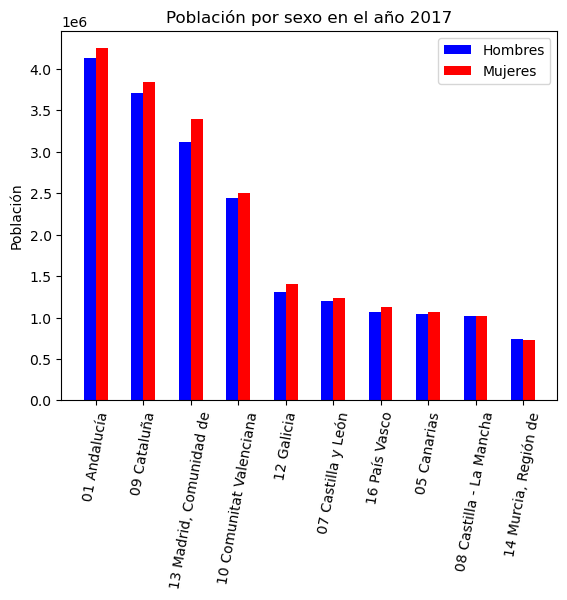
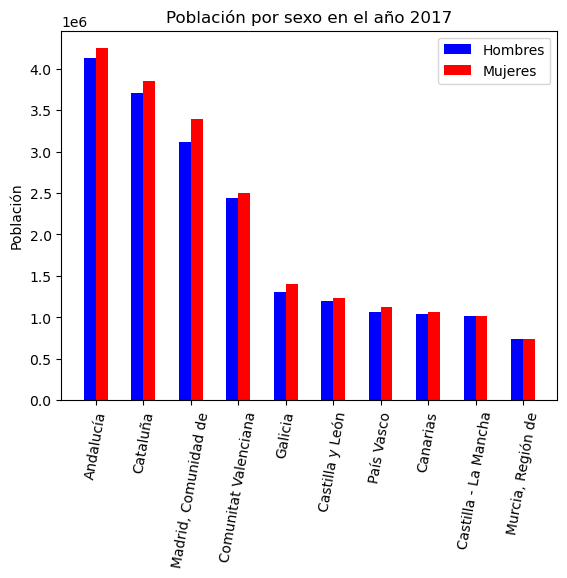
Gráfica sin código de comunidades

diff --git a/practicas/p1/poblacionPTC/resultados/poblacionComAutonomas.html b/practicas/p1/poblacionPTC/resultados/poblacionComAutonomas.html
@@ -11,4 +11,4 @@
             <th colspan=8.0>Mujeres</th>
             </tr>
             <tr>
-        <th>2017</th><th>2016</th><th>2015</th><th>2014</th><th>2013</th><th>2012</th><th>2011</th><th>2010</th><th>2017</th><th>2016</th><th>2015</th><th>2014</th><th>2013</th><th>2012</th><th>2011</th><th>2010</th><th>2017</th><th>2016</th><th>2015</th><th>2014</th><th>2013</th><th>2012</th><th>2011</th><th>2010</th></tr><tr><td>01 Andalucía</td><td>8.379.820</td><td>8.388.107</td><td>8.399.043</td><td>8.402.305</td><td>8.440.300</td><td>8.449.985</td><td>8.424.102</td><td>8.370.975</td><td>4.133.835</td><td>4.139.194</td><td>4.144.532</td><td>4.148.701</td><td>4.170.654</td><td>4.180.285</td><td>4.169.634</td><td>4.144.856</td><td>4.245.985</td><td>4.248.913</td><td>4.254.511</td><td>4.253.604</td><td>4.269.646</td><td>4.269.700</td><td>4.254.468</td><td>4.226.119</td></tr><tr><td>02 Aragón</td><td>1.308.750</td><td>1.308.563</td><td>1.317.847</td><td>1.325.385</td><td>1.347.150</td><td>1.349.467</td><td>1.346.293</td><td>1.347.095</td><td>645.895</td><td>647.206</td><td>652.687</td><td>656.964</td><td>669.987</td><td>671.898</td><td>671.286</td><td>673.177</td><td>662.855</td><td>661.357</td><td>665.160</td><td>668.421</td><td>677.163</td><td>677.569</td><td>675.007</td><td>673.918</td></tr><tr><td>03 Asturias, Principado de</td><td>1.034.960</td><td>1.042.608</td><td>1.051.229</td><td>1.061.756</td><td>1.068.165</td><td>1.077.360</td><td>1.081.487</td><td>1.084.341</td><td>493.911</td><td>497.852</td><td>502.175</td><td>507.927</td><td>511.346</td><td>516.420</td><td>518.571</td><td>520.402</td><td>541.049</td><td>544.756</td><td>549.054</td><td>553.829</td><td>556.819</td><td>560.940</td><td>562.916</td><td>563.939</td></tr><tr><td>04 Balears, Illes</td><td>1.115.999</td><td>1.107.220</td><td>1.104.479</td><td>1.103.442</td><td>1.111.674</td><td>1.119.439</td><td>1.113.114</td><td>1.106.049</td><td>554.925</td><td>550.682</td><td>549.678</td><td>549.801</td><td>554.603</td><td>560.091</td><td>557.577</td><td>555.204</td><td>561.074</td><td>556.538</td><td>554.801</td><td>553.641</td><td>557.071</td><td>559.348</td><td>555.537</td><td>550.845</td></tr><tr><td>05 Canarias</td><td>2.108.121</td><td>2.101.924</td><td>2.100.306</td><td>2.104.815</td><td>2.118.679</td><td>2.118.344</td><td>2.126.769</td><td>2.118.519</td><td>1.045.113</td><td>1.042.838</td><td>1.043.203</td><td>1.046.373</td><td>1.055.302</td><td>1.056.240</td><td>1.061.591</td><td>1.058.706</td><td>1.063.008</td><td>1.059.086</td><td>1.057.103</td><td>1.058.442</td><td>1.063.377</td><td>1.062.104</td><td>1.065.178</td><td>1.059.813</td></tr><tr><td>06 Cantabria</td><td>580.295</td><td>582.206</td><td>585.179</td><td>588.656</td><td>591.888</td><td>593.861</td><td>593.121</td><td>592.250</td><td>281.808</td><td>282.988</td><td>284.788</td><td>286.782</td><td>288.643</td><td>289.999</td><td>289.872</td><td>289.931</td><td>298.487</td><td>299.218</td><td>300.391</td><td>301.874</td><td>303.245</td><td>303.862</td><td>303.249</td><td>302.319</td></tr><tr><td>07 Castilla y León</td><td>2.425.801</td><td>2.447.519</td><td>2.472.052</td><td>2.494.790</td><td>2.519.875</td><td>2.546.078</td><td>2.558.463</td><td>2.559.515</td><td>1.195.251</td><td>1.206.775</td><td>1.219.616</td><td>1.232.250</td><td>1.246.377</td><td>1.261.141</td><td>1.267.671</td><td>1.268.860</td><td>1.230.550</td><td>1.240.744</td><td>1.252.436</td><td>1.262.540</td><td>1.273.498</td><td>1.284.937</td><td>1.290.792</td><td>1.290.655</td></tr><tr><td>08 Castilla - La Mancha</td><td>2.031.479</td><td>2.041.631</td><td>2.059.191</td><td>2.078.611</td><td>2.100.998</td><td>2.121.888</td><td>2.115.334</td><td>2.098.373</td><td>1.016.761</td><td>1.022.722</td><td>1.032.673</td><td>1.043.880</td><td>1.056.960</td><td>1.069.648</td><td>1.066.598</td><td>1.059.149</td><td>1.014.718</td><td>1.018.909</td><td>1.026.518</td><td>1.034.731</td><td>1.044.038</td><td>1.052.240</td><td>1.048.736</td><td>1.039.224</td></tr><tr><td>09 Cataluña</td><td>7.555.830</td><td>7.522.596</td><td>7.508.106</td><td>7.518.903</td><td>7.553.650</td><td>7.570.908</td><td>7.539.618</td><td>7.512.381</td><td>3.710.200</td><td>3.697.368</td><td>3.691.745</td><td>3.701.740</td><td>3.725.318</td><td>3.741.628</td><td>3.732.196</td><td>3.724.515</td><td>3.845.630</td><td>3.825.228</td><td>3.816.361</td><td>3.817.163</td><td>3.828.332</td><td>3.829.280</td><td>3.807.422</td><td>3.787.866</td></tr><tr><td>10 Comunitat Valenciana</td><td>4.941.509</td><td>4.959.968</td><td>4.980.689</td><td>5.004.844</td><td>5.113.815</td><td>5.129.266</td><td>5.117.190</td><td>5.111.706</td><td>2.436.203</td><td>2.448.748</td><td>2.460.805</td><td>2.475.081</td><td>2.534.539</td><td>2.546.404</td><td>2.541.780</td><td>2.542.949</td><td>2.505.306</td><td>2.511.220</td><td>2.519.884</td><td>2.529.763</td><td>2.579.276</td><td>2.582.862</td><td>2.575.410</td><td>2.568.757</td></tr><tr><td>11 Extremadura</td><td>1.079.920</td><td>1.087.778</td><td>1.092.997</td><td>1.099.632</td><td>1.104.004</td><td>1.108.130</td><td>1.109.367</td><td>1.107.220</td><td>535.060</td><td>539.239</td><td>542.078</td><td>545.616</td><td>548.054</td><td>550.324</td><td>550.864</td><td>549.721</td><td>544.860</td><td>548.539</td><td>550.919</td><td>554.016</td><td>555.950</td><td>557.806</td><td>558.503</td><td>557.499</td></tr><tr><td>12 Galicia</td><td>2.708.339</td><td>2.718.525</td><td>2.732.347</td><td>2.748.695</td><td>2.765.940</td><td>2.781.498</td><td>2.795.422</td><td>2.797.653</td><td>1.304.392</td><td>1.309.809</td><td>1.317.054</td><td>1.325.657</td><td>1.335.122</td><td>1.343.328</td><td>1.349.591</td><td>1.350.547</td><td>1.403.947</td><td>1.408.716</td><td>1.415.293</td><td>1.423.038</td><td>1.430.818</td><td>1.438.170</td><td>1.445.831</td><td>1.447.106</td></tr><tr><td>13 Madrid, Comunidad de</td><td>6.507.184</td><td>6.466.996</td><td>6.436.996</td><td>6.454.440</td><td>6.495.551</td><td>6.498.560</td><td>6.489.680</td><td>6.458.684</td><td>3.115.522</td><td>3.098.631</td><td>3.087.022</td><td>3.099.641</td><td>3.123.724</td><td>3.130.241</td><td>3.132.844</td><td>3.124.438</td><td>3.391.662</td><td>3.368.365</td><td>3.349.974</td><td>3.354.799</td><td>3.371.827</td><td>3.368.319</td><td>3.356.836</td><td>3.334.246</td></tr><tr><td>14 Murcia, Región de</td><td>1.470.273</td><td>1.464.847</td><td>1.467.288</td><td>1.466.818</td><td>1.472.049</td><td>1.474.449</td><td>1.470.069</td><td>1.461.979</td><td>736.238</td><td>733.555</td><td>735.434</td><td>735.889</td><td>739.842</td><td>742.727</td><td>741.581</td><td>738.627</td><td>734.035</td><td>731.292</td><td>731.854</td><td>730.929</td><td>732.207</td><td>731.722</td><td>728.488</td><td>723.352</td></tr><tr><td>15 Navarra, Comunidad Foral de</td><td>643.234</td><td>640.647</td><td>640.476</td><td>640.790</td><td>644.477</td><td>644.566</td><td>642.051</td><td>636.924</td><td>318.671</td><td>317.840</td><td>317.885</td><td>318.486</td><td>320.933</td><td>321.453</td><td>320.656</td><td>318.423</td><td>324.563</td><td>322.807</td><td>322.591</td><td>322.304</td><td>323.544</td><td>323.113</td><td>321.395</td><td>318.501</td></tr><tr><td>16 País Vasco</td><td>2.194.158</td><td>2.189.534</td><td>2.189.257</td><td>2.188.985</td><td>2.191.682</td><td>2.193.093</td><td>2.184.606</td><td>2.178.339</td><td>1.066.905</td><td>1.065.580</td><td>1.065.925</td><td>1.066.369</td><td>1.068.746</td><td>1.070.438</td><td>1.066.872</td><td>1.064.708</td><td>1.127.253</td><td>1.123.954</td><td>1.123.332</td><td>1.122.616</td><td>1.122.936</td><td>1.122.655</td><td>1.117.734</td><td>1.113.631</td></tr><tr><td>17 Rioja, La</td><td>315.381</td><td>315.794</td><td>317.053</td><td>319.002</td><td>322.027</td><td>323.609</td><td>322.955</td><td>322.415</td><td>155.508</td><td>155.969</td><td>156.733</td><td>158.090</td><td>160.159</td><td>161.574</td><td>161.582</td><td>161.884</td><td>159.873</td><td>159.825</td><td>160.320</td><td>160.912</td><td>161.868</td><td>162.035</td><td>161.373</td><td>160.531</td></tr><tr><td>18 Ceuta</td><td>84.959</td><td>84.519</td><td>84.263</td><td>84.963</td><td>84.180</td><td>84.018</td><td>82.376</td><td>80.579</td><td>43.034</td><td>42.846</td><td>42.757</td><td>43.354</td><td>43.060</td><td>42.948</td><td>42.165</td><td>41.269</td><td>41.925</td><td>41.673</td><td>41.506</td><td>41.609</td><td>41.120</td><td>41.070</td><td>40.211</td><td>39.310</td></tr><tr><td>19 Melilla</td><td>86.120</td><td>86.026</td><td>85.584</td><td>84.509</td><td>83.679</td><td>80.802</td><td>78.476</td><td>76.034</td><td>43.629</td><td>43.768</td><td>43.593</td><td>43.075</td><td>43.017</td><td>41.569</td><td>40.256</td><td>38.819</td><td>42.491</td><td>42.258</td><td>41.991</td><td>41.434</td><td>40.662</td><td>39.233</td><td>38.220</td><td>37.215</td></tr></table><img src="R3.png" alt="Error al cargar la imagen" width="1280" height="1280"></body></html>
+        <th>2017</th><th>2016</th><th>2015</th><th>2014</th><th>2013</th><th>2012</th><th>2011</th><th>2010</th><th>2017</th><th>2016</th><th>2015</th><th>2014</th><th>2013</th><th>2012</th><th>2011</th><th>2010</th><th>2017</th><th>2016</th><th>2015</th><th>2014</th><th>2013</th><th>2012</th><th>2011</th><th>2010</th></tr><tr><td>01 Andalucía</td><td>8.379.820</td><td>8.388.107</td><td>8.399.043</td><td>8.402.305</td><td>8.440.300</td><td>8.449.985</td><td>8.424.102</td><td>8.370.975</td><td>4.133.835</td><td>4.139.194</td><td>4.144.532</td><td>4.148.701</td><td>4.170.654</td><td>4.180.285</td><td>4.169.634</td><td>4.144.856</td><td>4.245.985</td><td>4.248.913</td><td>4.254.511</td><td>4.253.604</td><td>4.269.646</td><td>4.269.700</td><td>4.254.468</td><td>4.226.119</td></tr><tr><td>02 Aragón</td><td>1.308.750</td><td>1.308.563</td><td>1.317.847</td><td>1.325.385</td><td>1.347.150</td><td>1.349.467</td><td>1.346.293</td><td>1.347.095</td><td>645.895</td><td>647.206</td><td>652.687</td><td>656.964</td><td>669.987</td><td>671.898</td><td>671.286</td><td>673.177</td><td>662.855</td><td>661.357</td><td>665.160</td><td>668.421</td><td>677.163</td><td>677.569</td><td>675.007</td><td>673.918</td></tr><tr><td>03 Asturias, Principado de</td><td>1.034.960</td><td>1.042.608</td><td>1.051.229</td><td>1.061.756</td><td>1.068.165</td><td>1.077.360</td><td>1.081.487</td><td>1.084.341</td><td>493.911</td><td>497.852</td><td>502.175</td><td>507.927</td><td>511.346</td><td>516.420</td><td>518.571</td><td>520.402</td><td>541.049</td><td>544.756</td><td>549.054</td><td>553.829</td><td>556.819</td><td>560.940</td><td>562.916</td><td>563.939</td></tr><tr><td>04 Balears, Illes</td><td>1.115.999</td><td>1.107.220</td><td>1.104.479</td><td>1.103.442</td><td>1.111.674</td><td>1.119.439</td><td>1.113.114</td><td>1.106.049</td><td>554.925</td><td>550.682</td><td>549.678</td><td>549.801</td><td>554.603</td><td>560.091</td><td>557.577</td><td>555.204</td><td>561.074</td><td>556.538</td><td>554.801</td><td>553.641</td><td>557.071</td><td>559.348</td><td>555.537</td><td>550.845</td></tr><tr><td>05 Canarias</td><td>2.108.121</td><td>2.101.924</td><td>2.100.306</td><td>2.104.815</td><td>2.118.679</td><td>2.118.344</td><td>2.126.769</td><td>2.118.519</td><td>1.045.113</td><td>1.042.838</td><td>1.043.203</td><td>1.046.373</td><td>1.055.302</td><td>1.056.240</td><td>1.061.591</td><td>1.058.706</td><td>1.063.008</td><td>1.059.086</td><td>1.057.103</td><td>1.058.442</td><td>1.063.377</td><td>1.062.104</td><td>1.065.178</td><td>1.059.813</td></tr><tr><td>06 Cantabria</td><td>580.295</td><td>582.206</td><td>585.179</td><td>588.656</td><td>591.888</td><td>593.861</td><td>593.121</td><td>592.250</td><td>281.808</td><td>282.988</td><td>284.788</td><td>286.782</td><td>288.643</td><td>289.999</td><td>289.872</td><td>289.931</td><td>298.487</td><td>299.218</td><td>300.391</td><td>301.874</td><td>303.245</td><td>303.862</td><td>303.249</td><td>302.319</td></tr><tr><td>07 Castilla y León</td><td>2.425.801</td><td>2.447.519</td><td>2.472.052</td><td>2.494.790</td><td>2.519.875</td><td>2.546.078</td><td>2.558.463</td><td>2.559.515</td><td>1.195.251</td><td>1.206.775</td><td>1.219.616</td><td>1.232.250</td><td>1.246.377</td><td>1.261.141</td><td>1.267.671</td><td>1.268.860</td><td>1.230.550</td><td>1.240.744</td><td>1.252.436</td><td>1.262.540</td><td>1.273.498</td><td>1.284.937</td><td>1.290.792</td><td>1.290.655</td></tr><tr><td>08 Castilla - La Mancha</td><td>2.031.479</td><td>2.041.631</td><td>2.059.191</td><td>2.078.611</td><td>2.100.998</td><td>2.121.888</td><td>2.115.334</td><td>2.098.373</td><td>1.016.761</td><td>1.022.722</td><td>1.032.673</td><td>1.043.880</td><td>1.056.960</td><td>1.069.648</td><td>1.066.598</td><td>1.059.149</td><td>1.014.718</td><td>1.018.909</td><td>1.026.518</td><td>1.034.731</td><td>1.044.038</td><td>1.052.240</td><td>1.048.736</td><td>1.039.224</td></tr><tr><td>09 Cataluña</td><td>7.555.830</td><td>7.522.596</td><td>7.508.106</td><td>7.518.903</td><td>7.553.650</td><td>7.570.908</td><td>7.539.618</td><td>7.512.381</td><td>3.710.200</td><td>3.697.368</td><td>3.691.745</td><td>3.701.740</td><td>3.725.318</td><td>3.741.628</td><td>3.732.196</td><td>3.724.515</td><td>3.845.630</td><td>3.825.228</td><td>3.816.361</td><td>3.817.163</td><td>3.828.332</td><td>3.829.280</td><td>3.807.422</td><td>3.787.866</td></tr><tr><td>10 Comunitat Valenciana</td><td>4.941.509</td><td>4.959.968</td><td>4.980.689</td><td>5.004.844</td><td>5.113.815</td><td>5.129.266</td><td>5.117.190</td><td>5.111.706</td><td>2.436.203</td><td>2.448.748</td><td>2.460.805</td><td>2.475.081</td><td>2.534.539</td><td>2.546.404</td><td>2.541.780</td><td>2.542.949</td><td>2.505.306</td><td>2.511.220</td><td>2.519.884</td><td>2.529.763</td><td>2.579.276</td><td>2.582.862</td><td>2.575.410</td><td>2.568.757</td></tr><tr><td>11 Extremadura</td><td>1.079.920</td><td>1.087.778</td><td>1.092.997</td><td>1.099.632</td><td>1.104.004</td><td>1.108.130</td><td>1.109.367</td><td>1.107.220</td><td>535.060</td><td>539.239</td><td>542.078</td><td>545.616</td><td>548.054</td><td>550.324</td><td>550.864</td><td>549.721</td><td>544.860</td><td>548.539</td><td>550.919</td><td>554.016</td><td>555.950</td><td>557.806</td><td>558.503</td><td>557.499</td></tr><tr><td>12 Galicia</td><td>2.708.339</td><td>2.718.525</td><td>2.732.347</td><td>2.748.695</td><td>2.765.940</td><td>2.781.498</td><td>2.795.422</td><td>2.797.653</td><td>1.304.392</td><td>1.309.809</td><td>1.317.054</td><td>1.325.657</td><td>1.335.122</td><td>1.343.328</td><td>1.349.591</td><td>1.350.547</td><td>1.403.947</td><td>1.408.716</td><td>1.415.293</td><td>1.423.038</td><td>1.430.818</td><td>1.438.170</td><td>1.445.831</td><td>1.447.106</td></tr><tr><td>13 Madrid, Comunidad de</td><td>6.507.184</td><td>6.466.996</td><td>6.436.996</td><td>6.454.440</td><td>6.495.551</td><td>6.498.560</td><td>6.489.680</td><td>6.458.684</td><td>3.115.522</td><td>3.098.631</td><td>3.087.022</td><td>3.099.641</td><td>3.123.724</td><td>3.130.241</td><td>3.132.844</td><td>3.124.438</td><td>3.391.662</td><td>3.368.365</td><td>3.349.974</td><td>3.354.799</td><td>3.371.827</td><td>3.368.319</td><td>3.356.836</td><td>3.334.246</td></tr><tr><td>14 Murcia, Región de</td><td>1.470.273</td><td>1.464.847</td><td>1.467.288</td><td>1.466.818</td><td>1.472.049</td><td>1.474.449</td><td>1.470.069</td><td>1.461.979</td><td>736.238</td><td>733.555</td><td>735.434</td><td>735.889</td><td>739.842</td><td>742.727</td><td>741.581</td><td>738.627</td><td>734.035</td><td>731.292</td><td>731.854</td><td>730.929</td><td>732.207</td><td>731.722</td><td>728.488</td><td>723.352</td></tr><tr><td>15 Navarra, Comunidad Foral de</td><td>643.234</td><td>640.647</td><td>640.476</td><td>640.790</td><td>644.477</td><td>644.566</td><td>642.051</td><td>636.924</td><td>318.671</td><td>317.840</td><td>317.885</td><td>318.486</td><td>320.933</td><td>321.453</td><td>320.656</td><td>318.423</td><td>324.563</td><td>322.807</td><td>322.591</td><td>322.304</td><td>323.544</td><td>323.113</td><td>321.395</td><td>318.501</td></tr><tr><td>16 País Vasco</td><td>2.194.158</td><td>2.189.534</td><td>2.189.257</td><td>2.188.985</td><td>2.191.682</td><td>2.193.093</td><td>2.184.606</td><td>2.178.339</td><td>1.066.905</td><td>1.065.580</td><td>1.065.925</td><td>1.066.369</td><td>1.068.746</td><td>1.070.438</td><td>1.066.872</td><td>1.064.708</td><td>1.127.253</td><td>1.123.954</td><td>1.123.332</td><td>1.122.616</td><td>1.122.936</td><td>1.122.655</td><td>1.117.734</td><td>1.113.631</td></tr><tr><td>17 Rioja, La</td><td>315.381</td><td>315.794</td><td>317.053</td><td>319.002</td><td>322.027</td><td>323.609</td><td>322.955</td><td>322.415</td><td>155.508</td><td>155.969</td><td>156.733</td><td>158.090</td><td>160.159</td><td>161.574</td><td>161.582</td><td>161.884</td><td>159.873</td><td>159.825</td><td>160.320</td><td>160.912</td><td>161.868</td><td>162.035</td><td>161.373</td><td>160.531</td></tr><tr><td>18 Ceuta</td><td>84.959</td><td>84.519</td><td>84.263</td><td>84.963</td><td>84.180</td><td>84.018</td><td>82.376</td><td>80.579</td><td>43.034</td><td>42.846</td><td>42.757</td><td>43.354</td><td>43.060</td><td>42.948</td><td>42.165</td><td>41.269</td><td>41.925</td><td>41.673</td><td>41.506</td><td>41.609</td><td>41.120</td><td>41.070</td><td>40.211</td><td>39.310</td></tr><tr><td>19 Melilla</td><td>86.120</td><td>86.026</td><td>85.584</td><td>84.509</td><td>83.679</td><td>80.802</td><td>78.476</td><td>76.034</td><td>43.629</td><td>43.768</td><td>43.593</td><td>43.075</td><td>43.017</td><td>41.569</td><td>40.256</td><td>38.819</td><td>42.491</td><td>42.258</td><td>41.991</td><td>41.434</td><td>40.662</td><td>39.233</td><td>38.220</td><td>37.215</td></tr></table><img src="R3.png" alt="Error al cargar la imagen" width="720" height="720"></body></html>

diff --git a/practicas/p1/poblacionPTC/R3.py b/practicas/p1/poblacionPTC/R3.py
@@ -262,8 +262,14 @@ def crearHtml(destino, ruta_datos, lista_comunidades, lista_provincias):
         comunidades_sin_cod = orden_com
         comunidades_con_cod = []
 
+        #Solo el nombre bien escrito
         for com_rankin in orden_com:
-            comunidades_con_cod.append(dic_ca[com_rankin] + " " + dic_cod_com[dic_ca[com_rankin]])
+            comunidades_con_cod.append(dic_cod_com[dic_ca[com_rankin]])
+
+
+        # #Para añadir el código
+        # for com_rankin in orden_com:
+        #     comunidades_con_cod.append(dic_ca[com_rankin] + " " + dic_cod_com[dic_ca[com_rankin]])
 
         idx_H = 8
         idx_M = 16
@@ -303,7 +309,7 @@ def crearHtml(destino, ruta_datos, lista_comunidades, lista_provincias):
     #html
     paginaWeb = inicioHTML("Web 2", func.RUTA_ESTILO + "estilo2.css")
     paginaWeb += cuerpoHTML(SECCIONES, atributos, dic_pob_com, lista_comunidades_original_sin_codigo, dic_ca) #Tabla
-    paginaWeb += imagenHTML(nombre_img, "Error al cargar la imagen") #Imagen
+    paginaWeb += imagenHTML(nombre_img, "Error al cargar la imagen", dimensiones=(720,720)) #Imagen
     paginaWeb += finHTML()
 
 
